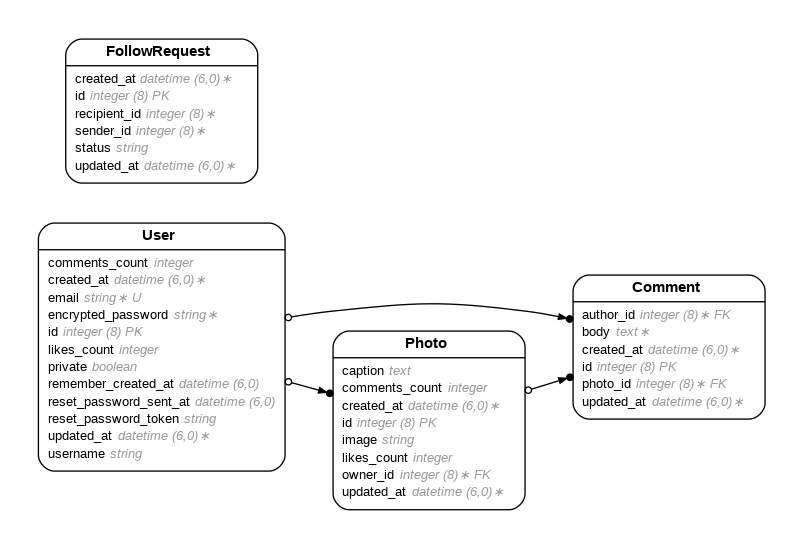
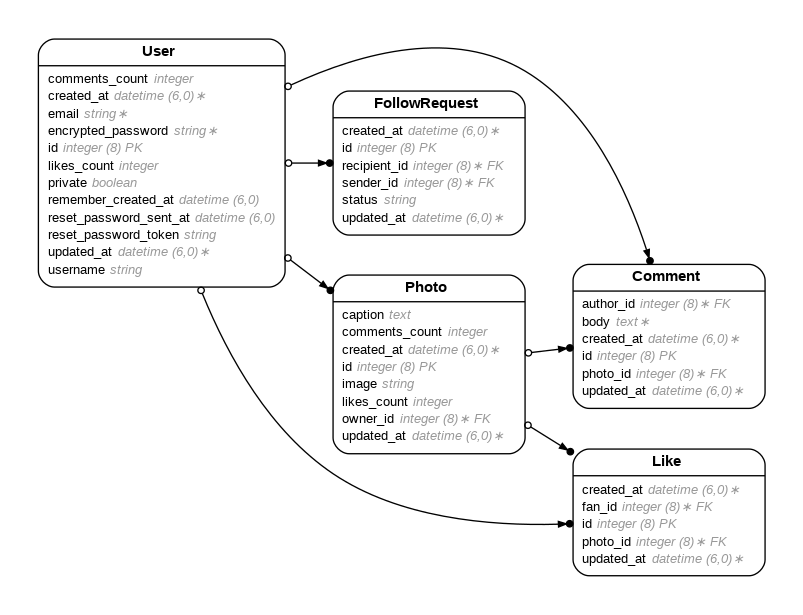
generate likes

diff --git a/app/controllers/likes_controller.rb b/app/controllers/likes_controller.rb
@@ -1,0 +1,70 @@
+class LikesController < ApplicationController
+  before_action :set_like, only: %i[ show edit update destroy ]
+
+  # GET /likes or /likes.json
+  def index
+    @likes = Like.all
+  end
+
+  # GET /likes/1 or /likes/1.json
+  def show
+  end
+
+  # GET /likes/new
+  def new
+    @like = Like.new
+  end
+
+  # GET /likes/1/edit
+  def edit
+  end
+
+  # POST /likes or /likes.json
+  def create
+    @like = Like.new(like_params)
+
+    respond_to do |format|
+      if @like.save
+        format.html { redirect_to like_url(@like), notice: "Like was successfully created." }
+        format.json { render :show, status: :created, location: @like }
+      else
+        format.html { render :new, status: :unprocessable_entity }
+        format.json { render json: @like.errors, status: :unprocessable_entity }
+      end
+    end
+  end
+
+  # PATCH/PUT /likes/1 or /likes/1.json
+  def update
+    respond_to do |format|
+      if @like.update(like_params)
+        format.html { redirect_to like_url(@like), notice: "Like was successfully updated." }
+        format.json { render :show, status: :ok, location: @like }
+      else
+        format.html { render :edit, status: :unprocessable_entity }
+        format.json { render json: @like.errors, status: :unprocessable_entity }
+      end
+    end
+  end
+
+  # DELETE /likes/1 or /likes/1.json
+  def destroy
+    @like.destroy!
+
+    respond_to do |format|
+      format.html { redirect_to likes_url, notice: "Like was successfully destroyed." }
+      format.json { head :no_content }
+    end
+  end
+
+  private
+    # Use callbacks to share common setup or constraints between actions.
+    def set_like
+      @like = Like.find(params[:id])
+    end
+
+    # Only allow a list of trusted parameters through.
+    def like_params
+      params.require(:like).permit(:fan_id, :photo_id)
+    end
+end

diff --git a/db/schema.rb b/db/schema.rb
@@ -10,7 +10,7 @@
 #
 # It's strongly recommended that you check this file into your version control system.
 
-ActiveRecord::Schema[7.1].define(version: 2025_03_14_041326) do
+ActiveRecord::Schema[7.1].define(version: 2025_03_14_041715) do
   # These are extensions that must be enabled in order to support this database
   enable_extension "plpgsql"
 
@@ -31,6 +31,15 @@ ActiveRecord::Schema[7.1].define(version: 2025_03_14_041326) do
     t.datetime "updated_at", null: false
     t.index ["recipient_id"], name: "index_follow_requests_on_recipient_id"
     t.index ["sender_id"], name: "index_follow_requests_on_sender_id"
+  end
+
+  create_table "likes", force: :cascade do |t|
+    t.bigint "fan_id", null: false
+    t.bigint "photo_id", null: false
+    t.datetime "created_at", null: false
+    t.datetime "updated_at", null: false
+    t.index ["fan_id"], name: "index_likes_on_fan_id"
+    t.index ["photo_id"], name: "index_likes_on_photo_id"
   end
 
   create_table "photos", force: :cascade do |t|
@@ -64,5 +73,7 @@ ActiveRecord::Schema[7.1].define(version: 2025_03_14_041326) do
   add_foreign_key "comments", "users", column: "author_id"
   add_foreign_key "follow_requests", "users", column: "recipient_id"
   add_foreign_key "follow_requests", "users", column: "sender_id"
+  add_foreign_key "likes", "photos"
+  add_foreign_key "likes", "users", column: "fan_id"
   add_foreign_key "photos", "users", column: "owner_id"
 end

diff --git a/app/models/user.rb b/app/models/user.rb
@@ -1,3 +1,25 @@
+# == Schema Information
+#
+# Table name: users
+#
+#  id                     :bigint           not null, primary key
+#  comments_count         :integer
+#  email                  :string           default(""), not null
+#  encrypted_password     :string           default(""), not null
+#  likes_count            :integer
+#  private                :boolean
+#  remember_created_at    :datetime
+#  reset_password_sent_at :datetime
+#  reset_password_token   :string
+#  username               :string
+#  created_at             :datetime         not null
+#  updated_at             :datetime         not null
+#
+# Indexes
+#
+#  index_users_on_email                 (email) UNIQUE
+#  index_users_on_reset_password_token  (reset_password_token) UNIQUE
+#
 class User < ApplicationRecord
   # Devise modules, etc.
 

diff --git a/app/models/follow_request.rb b/app/models/follow_request.rb
@@ -1,3 +1,24 @@
+# == Schema Information
+#
+# Table name: follow_requests
+#
+#  id           :bigint           not null, primary key
+#  status       :string           default("pending")
+#  created_at   :datetime         not null
+#  updated_at   :datetime         not null
+#  recipient_id :bigint           not null
+#  sender_id    :bigint           not null
+#
+# Indexes
+#
+#  index_follow_requests_on_recipient_id  (recipient_id)
+#  index_follow_requests_on_sender_id     (sender_id)
+#
+# Foreign Keys
+#
+#  fk_rails_...  (recipient_id => users.id)
+#  fk_rails_...  (sender_id => users.id)
+#
 # app/models/follow_request.rb
 class FollowRequest < ApplicationRecord
   belongs_to :recipient, class_name: "User"

diff --git a/app/models/like.rb b/app/models/like.rb
@@ -1,0 +1,24 @@
+# == Schema Information
+#
+# Table name: likes
+#
+#  id         :bigint           not null, primary key
+#  created_at :datetime         not null
+#  updated_at :datetime         not null
+#  fan_id     :bigint           not null
+#  photo_id   :bigint           not null
+#
+# Indexes
+#
+#  index_likes_on_fan_id    (fan_id)
+#  index_likes_on_photo_id  (photo_id)
+#
+# Foreign Keys
+#
+#  fk_rails_...  (fan_id => users.id)
+#  fk_rails_...  (photo_id => photos.id)
+#
+class Like < ApplicationRecord
+  belongs_to :fan, class_name: "User"
+  belongs_to :photo
+end

diff --git a/db/migrate/20250314041715_create_likes.rb b/db/migrate/20250314041715_create_likes.rb
@@ -1,0 +1,10 @@
+class CreateLikes < ActiveRecord::Migration[7.0]
+  def change
+    create_table :likes do |t|
+      t.references :fan,  null: false, foreign_key: { to_table: :users }
+      t.references :photo, null: false, foreign_key: true
+
+      t.timestamps
+    end
+  end
+end

diff --git a/config/routes.rb b/config/routes.rb
@@ -1,4 +1,5 @@
 Rails.application.routes.draw do
+  resources :likes
   resources :follow_requests
   resources :comments
   resources :photos
